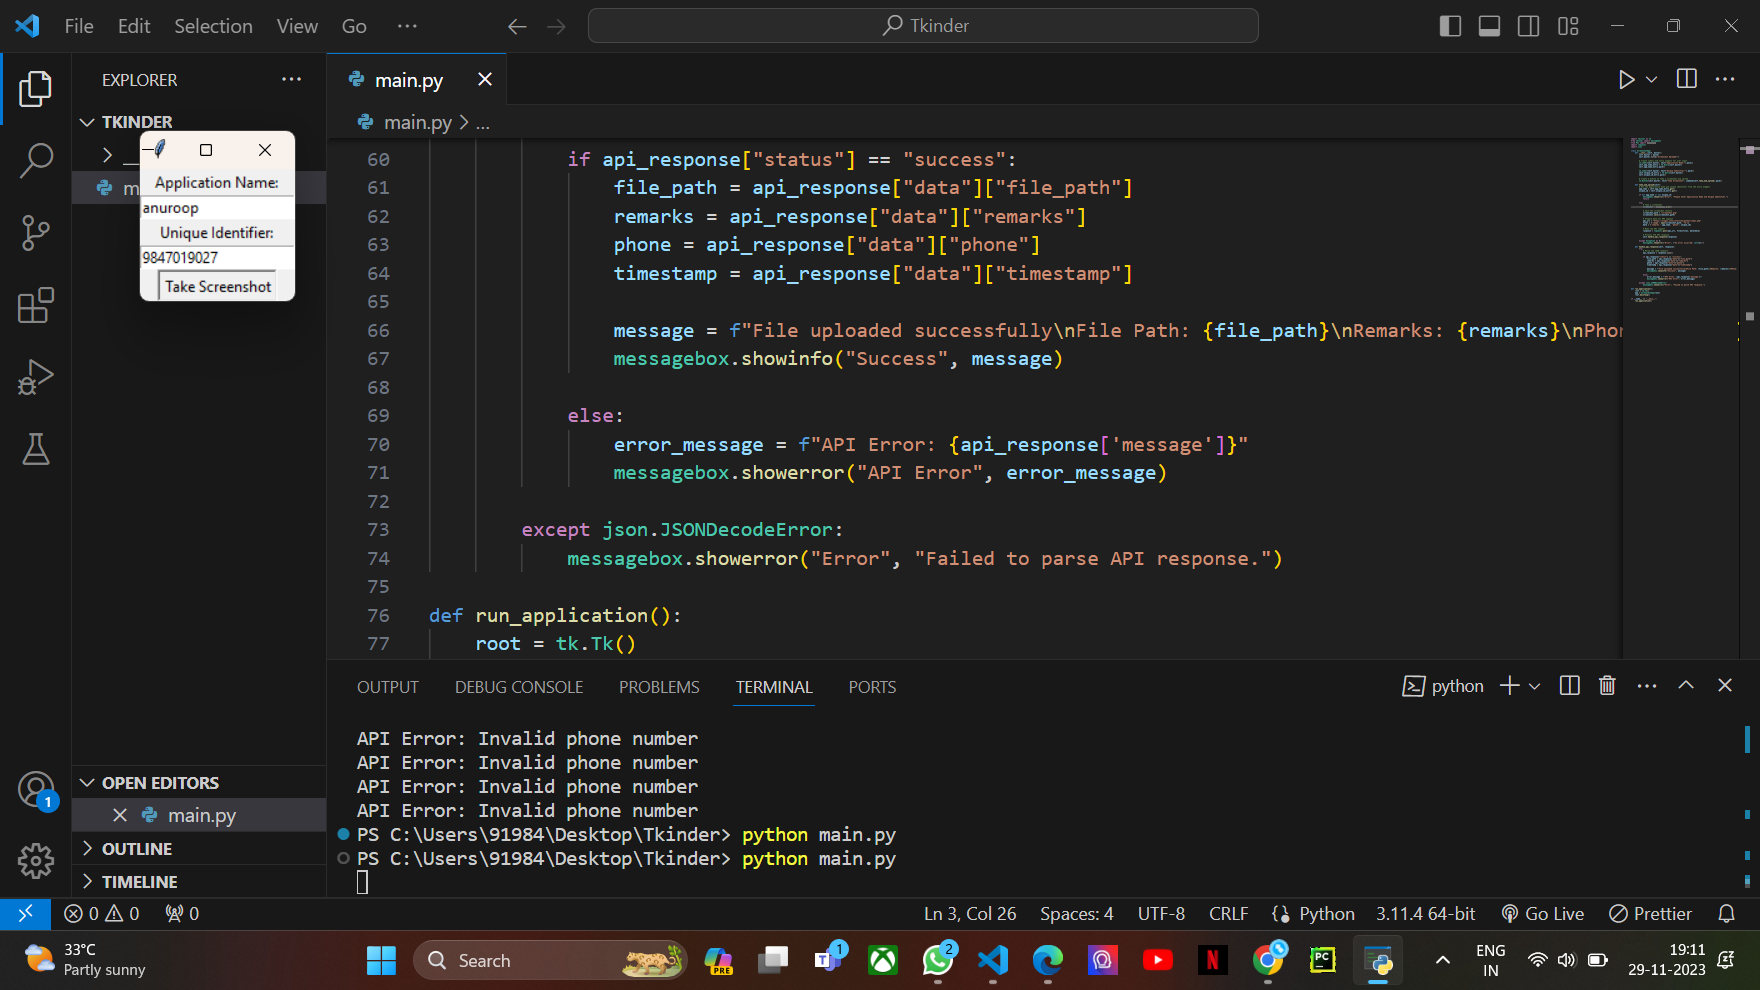
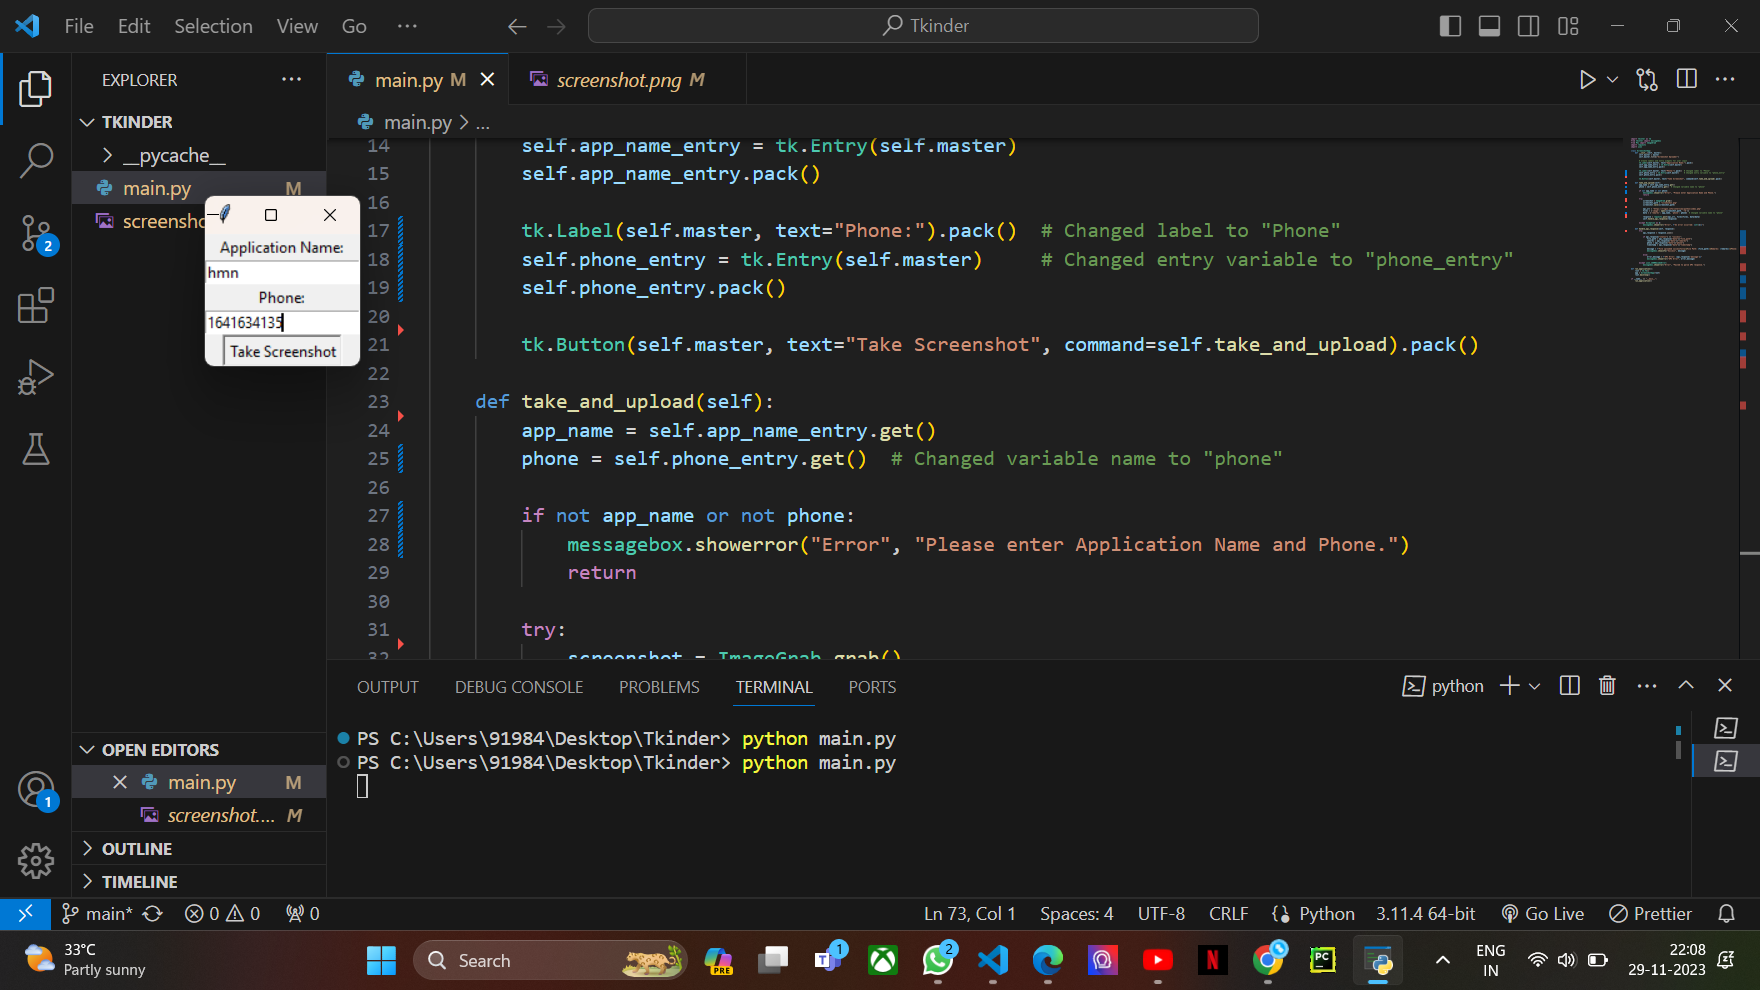
made changes

diff --git a/main.py b/main.py
@@ -14,39 +14,30 @@ class ScreenshotApp:
         self.app_name_entry = tk.Entry(self.master)
         self.app_name_entry.pack()
 
-        tk.Label(self.master, text="Unique Identifier:").pack()
-        self.unique_id_entry = tk.Entry(self.master)
-        self.unique_id_entry.pack()
+        tk.Label(self.master, text="Phone:").pack()  # Changed label to "Phone"
+        self.phone_entry = tk.Entry(self.master)     # Changed entry variable to "phone_entry"
+        self.phone_entry.pack()
 
-        # Create a button to take a screenshot and upload
         tk.Button(self.master, text="Take Screenshot", command=self.take_and_upload).pack()
 
     def take_and_upload(self):
-        # Get the application name and unique identifier from the entry widgets
         app_name = self.app_name_entry.get()
-        unique_id = self.unique_id_entry.get()
+        phone = self.phone_entry.get()  # Changed variable name to "phone"
 
-        if not app_name or not unique_id:
-            messagebox.showerror("Error", "Please enter Application Name and Unique Identifier.")
+        if not app_name or not phone:
+            messagebox.showerror("Error", "Please enter Application Name and Phone.")
             return
 
         try:
-            # Take a screenshot
             screenshot = ImageGrab.grab()
-
-            # Save the screenshot locally
             screenshot_path = "screenshot.png"
             screenshot.save(screenshot_path)
 
-            # Prepare data for API request
             api_url = "https://trogon.info/interview/python/index.php"
             files = {'image': open(screenshot_path, 'rb')}
-            data = {'remarks': app_name, 'phone': unique_id}
+            data = {'remarks': app_name, 'phone': phone}  # Changed variable name to "phone"
 
-            # Make the API request
             response = requests.post(api_url, files=files, data=data)
-
-            # Process the API response
             self.handle_api_response(response)
 
         except Exception as e:
@@ -54,7 +45,6 @@ class ScreenshotApp:
 
     def handle_api_response(self, response):
         try:
-            # Parse the JSON response
             api_response = response.json()
 
             if api_response["status"] == "success":
